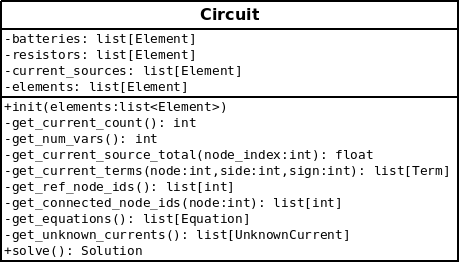
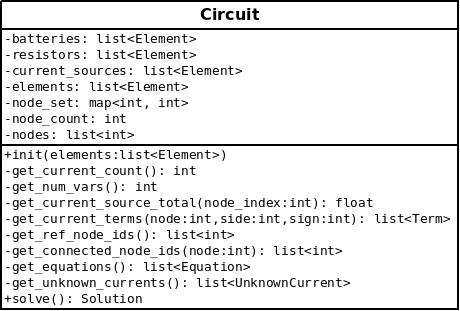
Added a lot of pseudocode for the Circuit class

Changed region(s): [[0.0, 0.0, 1.0, 1.0], [0.7304, 0.5779, 0.8217, 0.6084]]

diff --git a/Design/docs/algorithms.md b/Design/docs/algorithms.md
@@ -12,11 +12,66 @@ voltages at different nodes and vertices of the circuit.
 ![Algorithm Decomposition](images/algorithms.png)
 
 
+\newpage
+
 
 ## Circuit
 
 ![Circuit Class](images/Class_Circuit.png)
 
-### Solve the circuit
+### Initialiser
 
-%include_pc(pseudocode/solve_circuit.txt)
+%include_pc(pseudocode/circuit_init.txt)
+
+### Solver
+
+%include_pc(pseudocode/circuit_solve.txt)
+
+### Small miscelaneous functions
+
+%include_pc(pseudocode/circuit_misc.txt)
+
+
+\newpage
+
+## Element
+
+![Element Class](images/Class_Element.png)
+
+
+\newpage
+
+## Equation
+
+
+![Equation Class](images/Class_Equation.png)
+
+\newpage
+
+## Solution
+
+
+![Solution Class](images/Class_Solution.png)
+
+\newpage
+
+## Term
+
+
+![Term Class](images/Class_Term.png)
+
+\newpage
+
+## Unknown
+
+
+![Element Class](images/Class_Unknown.png)
+
+These are simply elements for which the voltage or current has not yet been calculated.
+
+Both UnknownVoltage and UnknownCurrent are under the Unknown class, so that they can both be
+stored in the same arrays as pointers.
+
+The Type attribute allows functions to know if they are an UnknownVoltage or an UnknownCurrent.
+
+\newpage
